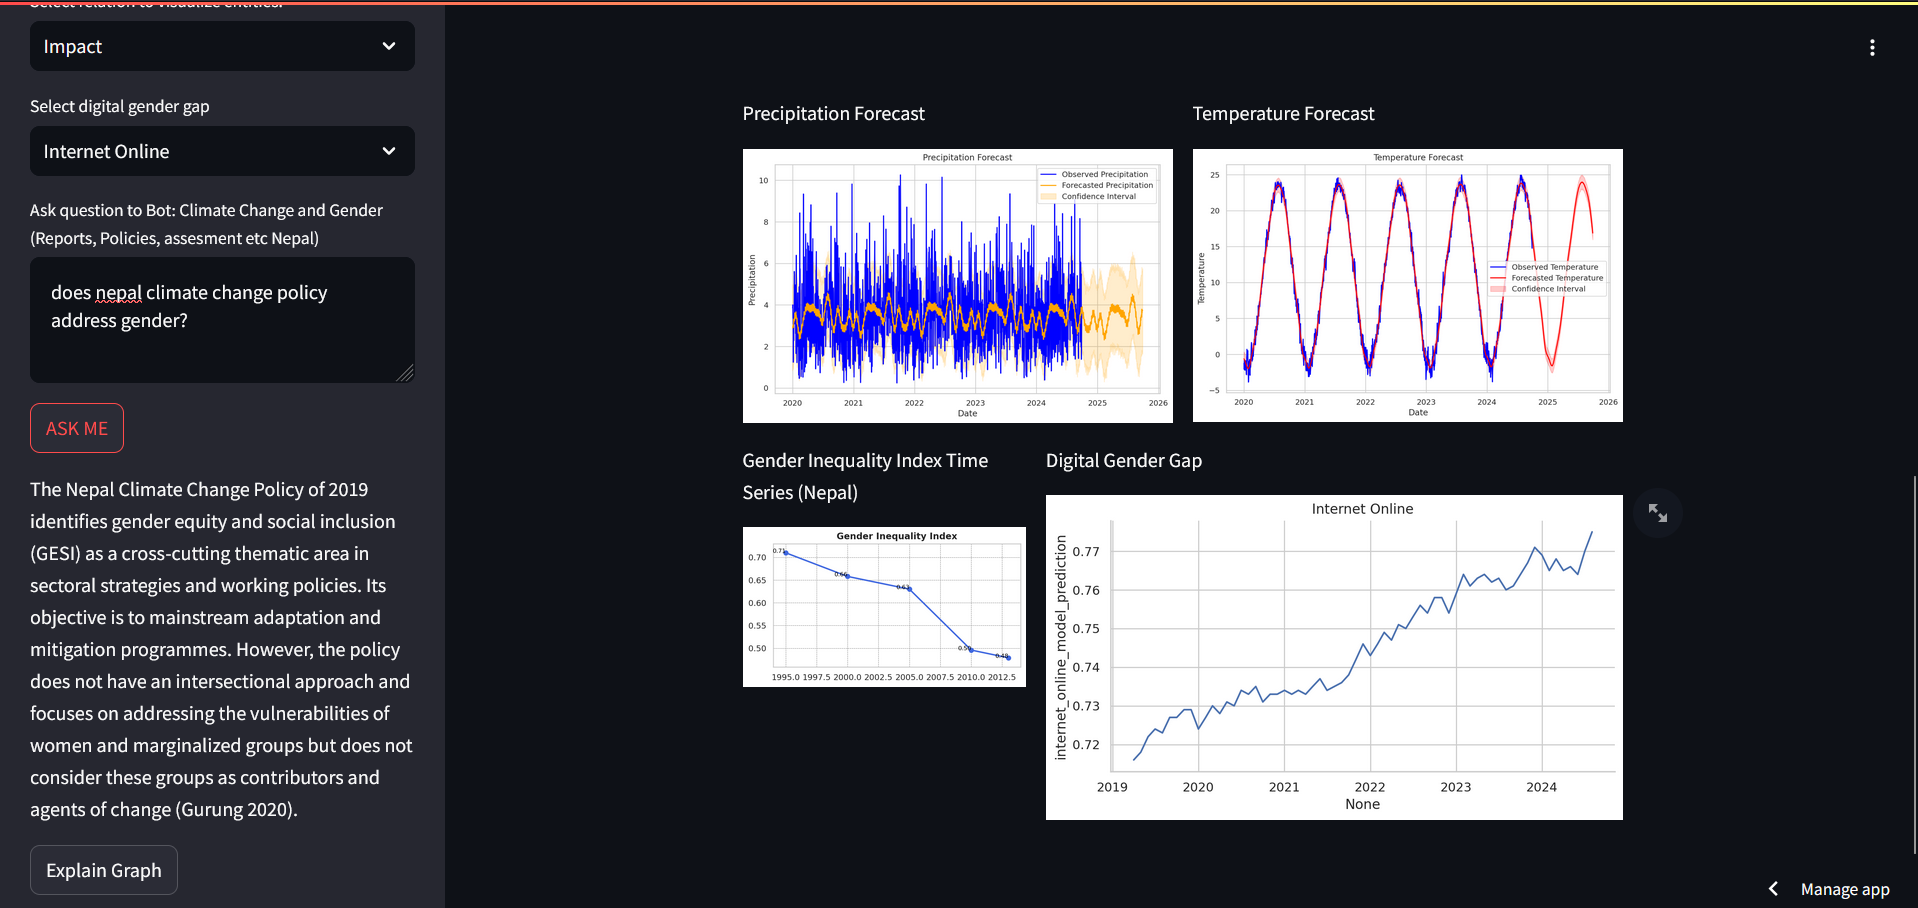
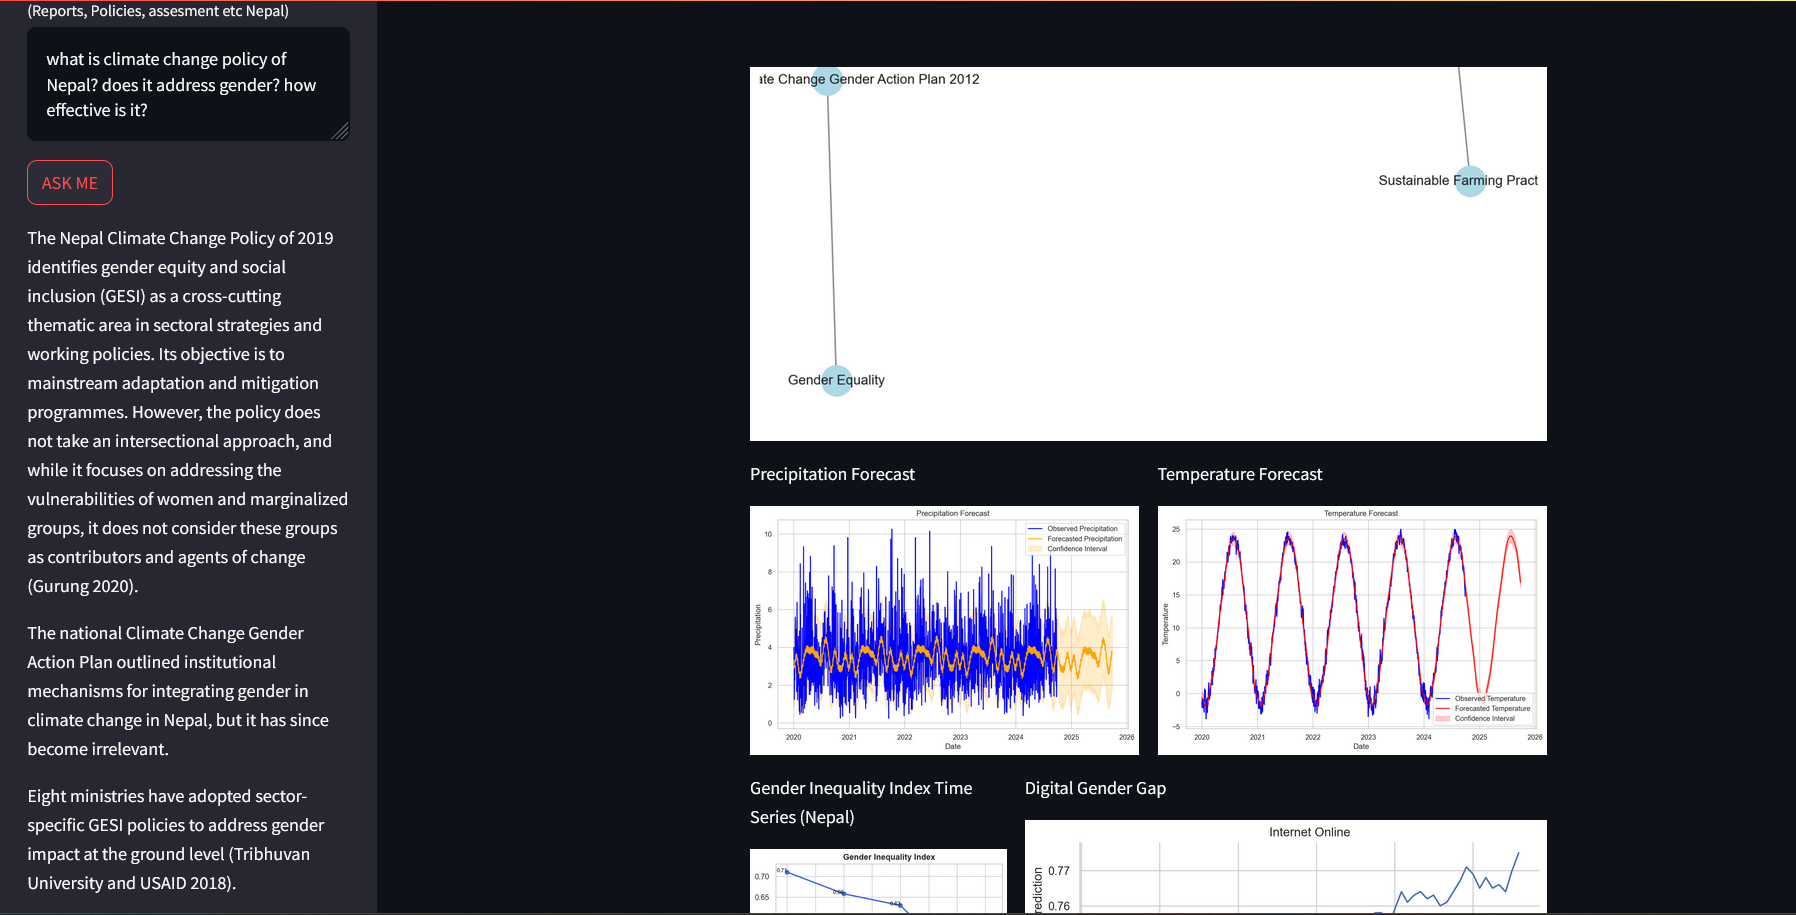
*minor refactor

diff --git a/app.py b/app.py
@@ -222,14 +222,14 @@ def get_vector_retriever(collection):
         collection=collection,
         index_name=ATLAS_VECTOR_SEARCH_INDEX_NAME
     )
-    retriever = vector_search.as_retriever(search_type='similarity', search_kwargs={'k': 2})
+    retriever = vector_search.as_retriever(search_type='similarity', search_kwargs={'k': 3})
 
     return retriever
 
 def question(user_input):
     if user_input: 
 
-        model = ChatGoogleGenerativeAI(model="gemini-1.5-pro", temperature=0.1)
+        model = ChatGoogleGenerativeAI(model="gemini-1.5-pro", temperature=0.2)
 
         template = """
             Task: Answer the question using only the provided context: {context}.
@@ -301,48 +301,67 @@ if submit_button:
 if __name__ == '__main__':
     st.title("Gender and Climate Change")
 
-    st.subheader("Relationship visualizer based on ICIMOD's Report on Gender & Climate change 2021")
+    st.subheader("Relationship visualizer")
+    relation_queries = {
+        'Effects': {
+            'query': "MATCH p=()-[:AFFECTS]->() RETURN p LIMIT 25;",
+            'description': "Edges: Effect Relationship<br>Nodes: Entities"
+        },
+        'CAUSES': {
+            'query': "MATCH p=()-[:CAUSES]->() RETURN p LIMIT 25;",
+            'description': "Edges: Causes Relationship<br>Nodes: Entities"
+        },
+        'Integrates': {
+            'query': "MATCH p=()-[:INTEGRATES]->() RETURN p LIMIT 25;",
+            'description': "Edges: Integrates Relationship<br>Nodes: Entities"
+        },
+        'Damages': {
+            'query': "MATCH p=()-[:DAMAGES]->() RETURN p LIMIT 25;",
+            'description': "Edges: Damages Relationship<br>Nodes: Entities"
+        },
+        'Effected-By': {
+            'query': "MATCH p=()-[:AFFECTED_BY]->() RETURN p LIMIT 25;",
+            'description': "Edges: Effected By Relationship<br>Nodes: Entities"
+        },
+        'Impact': {
+            'query': "MATCH p=()-[:IMPACTS]->() RETURN p LIMIT 25;",
+            'description': "Edges: Impacts Relationship<br>Nodes: Entities"
+        },
+        'Applies-To': {
+            'query': "MATCH p=()-[:APPLIES_TO]->() RETURN p LIMIT 25;",
+            'description': "Edges: Applies to Relationship<br>Nodes: Entities"
+        },
+        'Funds': {
+            'query': "MATCH p=()-[:FUNDS]->() RETURN p LIMIT 25;",
+            'description': "Edges: Funds Relationship<br>Nodes: Entities"
+        },
+        'Contributes': {
+            'query': "MATCH p=()-[:CONTRIBUTES_TO]->() RETURN p LIMIT 25;",
+            'description': "Edges: Contributes Relationship<br>Nodes: Entities"
+        },
+        'Developed': {
+            'query': "MATCH p=()-[:DEVELOPED]->() RETURN p LIMIT 25;",
+            'description': "Edges: Developed Relationship<br>Nodes: Entities"
+        },
+        'Governing': {
+            'query': "MATCH p=()-[:GOVERNING]->() RETURN p LIMIT 25;",
+            'description': "Edges: Governing Relationship<br>Nodes: Entities"
+        },
+        'Specifies': {
+            'query': "MATCH p=()-[:SPECIFIES]->() RETURN p LIMIT 25;",
+            'description': "Edges: Specifies Relationship<br>Nodes: Entities"
+        },
+        'Promotes': {
+            'query': "MATCH p=()-[:PROMOTES]->() RETURN p LIMIT 25;",
+            'description': "Edges: Promotes Relationship<br>Nodes: Entities"
+        }
+    }
 
-    # Define different Cypher queries based on the dropdown selection
-    if relation_option == 'Effects':
-        query = "MATCH p=()-[:AFFECTS]->() RETURN p LIMIT 25;"
-        st.markdown("Edges: Effect Relationship<br>Nodes: Entities", unsafe_allow_html=True)
-    elif relation_option == 'CAUSES':
-        query = "MATCH p=()-[:CAUSES]->() RETURN p LIMIT 25;"
-        st.markdown("Edges: Causes Relationship<br>Nodes: Entities", unsafe_allow_html=True)
-    elif relation_option == 'Integrates':
-        query = "MATCH p=()-[:INTEGRATES]->() RETURN p LIMIT 25;"
-        st.markdown("Edges: Integrates Relationship<br>Nodes: Entities", unsafe_allow_html=True)
-    elif relation_option == 'Damages':
-        query = "MATCH p=()-[:DAMAGES]->() RETURN p LIMIT 25;"
-        st.markdown("Edges: Damages Relationship<br>Nodes: Entities", unsafe_allow_html=True)
-    elif relation_option == 'Effected-By':
-        query = "MATCH p=()-[:AFFECTED_BY]->() RETURN p LIMIT 25;"
-        st.markdown("Edges: Effected By Relationship<br>Nodes: Entities", unsafe_allow_html=True)
-    elif relation_option == 'Impact':
-        query = "MATCH p=()-[:IMPACTS]->() RETURN p LIMIT 25;"
-        st.markdown("Edges: Impacts Relationship<br>Nodes: Entities", unsafe_allow_html=True)
-    elif relation_option == 'Applies-To':
-        query = "MATCH p=()-[:APPLIES_TO]->() RETURN p LIMIT 25;"
-        st.markdown("Edges: Applies to Relationship<br>Nodes: Entities", unsafe_allow_html=True)
-    elif relation_option == 'Funds':
-        query = "MATCH p=()-[:FUNDS]->() RETURN p LIMIT 25;"
-        st.markdown("Edges: Funds Relationship<br>Nodes: Entities", unsafe_allow_html=True)
-    elif relation_option == 'Contributes':
-        query = "MATCH p=()-[:CONTRIBUTES_TO]->() RETURN p LIMIT 25;"
-        st.markdown("Edges: Contributes Relationship<br>Nodes: Entities", unsafe_allow_html=True)
-    elif relation_option == 'Developed':
-        query = "MATCH p=()-[:DEVELOPED]->() RETURN p LIMIT 25;"
-        st.markdown("Edges: Developed Relationship<br>Nodes: Entities", unsafe_allow_html=True)
-    elif relation_option == 'Governing':
-        query = "MATCH p=()-[:GOVERNING]->() RETURN p LIMIT 25;"
-        st.markdown("Edges: Governing Relationship<br>Nodes: Entities", unsafe_allow_html=True)
-    elif relation_option == 'Specifies':
-        query = "MATCH p=()-[:SPECIFIES]->() RETURN p LIMIT 25;"
-        st.markdown("Edges: Specifies Relationship<br>Nodes: Entities", unsafe_allow_html=True)
-    elif relation_option == 'Promotes':
-        query = "MATCH p=()-[:PROMOTES]->() RETURN p LIMIT 25;"
-        st.markdown("Edges: Promotes Relationship<br>Nodes: Entities", unsafe_allow_html=True)
+    if relation_option in relation_queries:
+        query_info = relation_queries[relation_option]
+        query = query_info['query']
+        st.markdown(query_info['description'], unsafe_allow_html=True)
+
 
     # Run the selected query
     neo4j_paths = run_cypher_query(query, driver)

diff --git a/Readme.md b/Readme.md
@@ -7,13 +7,17 @@ Addressing this issue is a key focus of the United Nations Sustainable Developme
 This project proposes a data-driven approach using a combination of Knowledge Graphs, Large Language Models (LLMs), and Traditional Machine Learning techniques. This hybrid approach will allow us to model the relationship between climate change and gender inequality by leveraging structured and unstructured data sources, including reports, publications, and climate datasets.
 
 # Objectives
+
 - Policy Effectiveness: Evaluate the effectiveness of policies aimed at mitigating climate change and promoting gender equality.
+
+- Report Generation and Policy Recommendations: Utilize AI agents to analyze real-time climate data from NASA and gender-related datasets. These agents will generate comprehensive reports and actionable policy recommendations. By synthesizing this data, the AI can provide insights into the intersection of climate change and gender inequality, helping policymakers create targeted interventions.
 
 - Climate-Resilient Infrastructure Development: Based on the trends of the features, infrastructure improvements (e.g., flood-resistant housing, drought-resistant agriculture) could focus on reducing the disproportionate burden by improving access to critical resources.
 
 - Resource Allocation and Disaster Relief: Understanding the local climate dynamics (temperature, precipitation, wind) helps allocate resources to vulnerable populations, with specific attention to the needs of marginalized communities (e.g. distribution of aid post-disaster).
 
 - Risk Assessment and Early Warning Systems: These climate features can be used to develop predictive models that highlight areas at higher risk for disasters such as floods, droughts, and heatwaves. Policy measures can be directed to these regions to ensure disaster preparedness plans.
+
 
 
 # Screenshot
@@ -35,6 +39,10 @@ user can click on Explain Graph, which will explain the relation of graph in nat
     - Gender Inequality Data: Data on gender gaps in education, health, employment, and political participation etc will be collected from various sources. 
 - Climate Change Data: Climate data from sources such as https://power.larc.nasa.gov   
 - Policy Documents, Reports, Journals: Relevant reports, research papers and documents that highlight the gendered impacts of climate change.
+
+# Ethical Considerations
+- Bias and Fairness: Ensure that machine learning models are not biased against marginalized gender groups. 
+- Data Privacy: Safeguard the privacy of individuals and communities when collecting and processing gender-disaggregated data.
 
 
 # License
